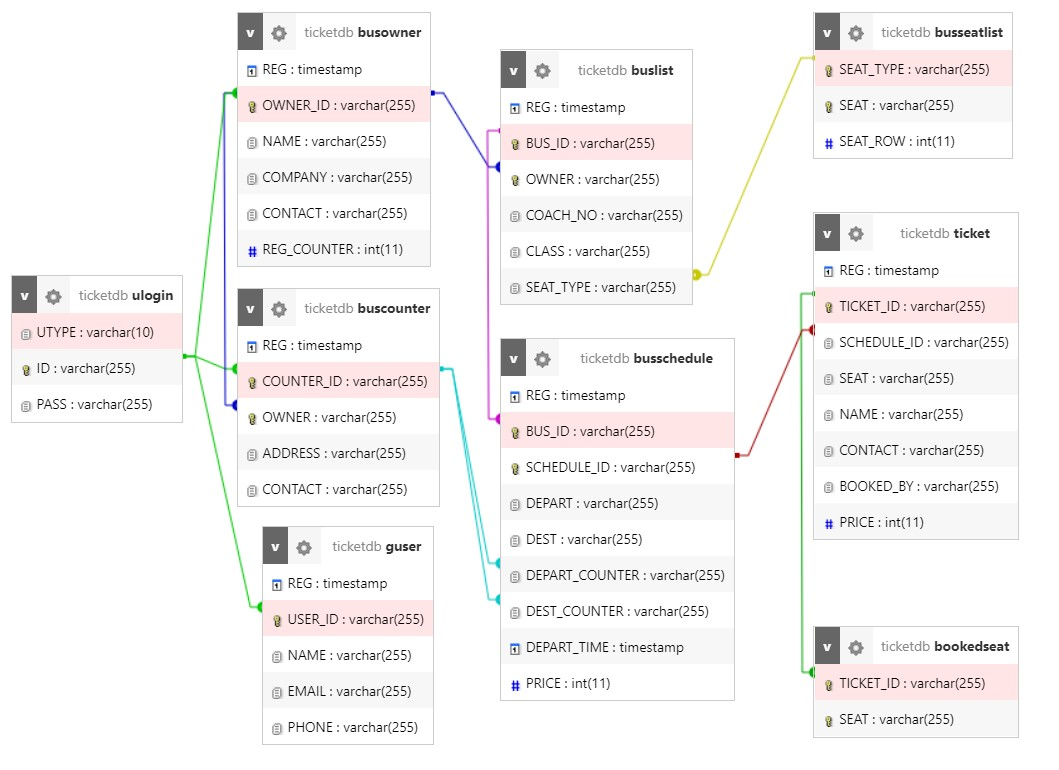
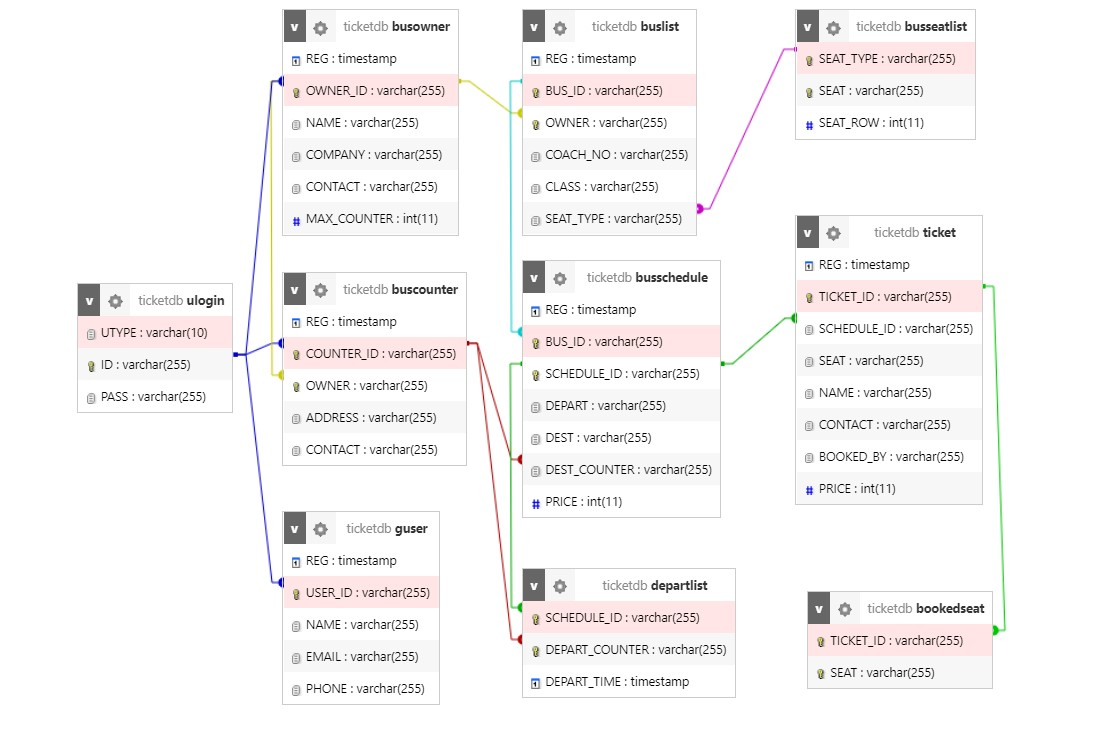
Multiple Departure Counter Feature Added

Changed region(s): [[0.0, 0.0, 0.966, 0.9583], [0.6856, 0.0, 0.966, 0.2164]]

diff --git a/style.css b/style.css
@@ -58,13 +58,21 @@ body {
     color: #17a2b8;
 }
 
-input.busseat[type="checkbox"],
-input.busseat[type="checkbox"]+label {
+input[type="checkbox"].busseat,
+input[type="checkbox"].busseat+label {
     width: 35px;
     height: 45px;
     font-size: inherit;
 }
 
-input.busseat[type="checkbox"]:checked+label:after {
+input[type="checkbox"].busseat:checked+label:after {
     content: "💺";
+}
+
+input[type="checkbox"].departcounter:checked+label {
+    color: #8e9eab;
+}
+
+input[type="checkbox"].departcounter:checked+label:after {
+    content: "✅";
 }

diff --git a/includes/scheduleform.php b/includes/scheduleform.php
@@ -1,11 +1,11 @@
 <?php
 date_default_timezone_set('Asia/Dhaka');
-$mindate=date("Y-m-d");
-$mintime=date("h:i");
-$min=$mindate."T".$mintime;
-$maxdate=date("Y-m-d", strtotime("+10 Days"));
-$maxtime=date("h:i");
-$max=$maxdate."T".$maxtime;
+$mindate = date("Y-m-d");
+$mintime = date("h:i");
+$min = $mindate . "T" . $mintime;
+$maxdate = date("Y-m-d", strtotime("+10 Days"));
+$maxtime = date("h:i");
+$max = $maxdate . "T" . $maxtime;
 //$max=date("Y-m-d h:i:sa", strtotime("+10 Days"));
 ?>
 <br>
@@ -40,7 +40,7 @@ $max=$maxdate."T".$maxtime;
             </select>
         </div>
         <div class="form-group">
-        <label for="dest">DESTINATION CITY</label>
+            <label for="dest">DESTINATION CITY</label>
             <select class="form-control" id="dest" name="destcity" required>
                 <option value="">SELECT DESTINATION CITY</option>
                 <option value="Dhaka">Dhaka</option>
@@ -51,19 +51,35 @@ $max=$maxdate."T".$maxtime;
                 <option value="Sylhet">Benapole</option>
             </select>
         </div>
-        <div class="form-group">
-            <label for="depart">DEPARTURE COUNTER</label>
-            <select class="form-control" id="depart" name="departcounter" required>
-                <option value="">SELECT DEPARTURE COUNTER</option>
+        <div class="form-group table-responsive">
+            <label for="">SELECT DEPARTURE COUNTERS & TIME</label>
+            <table class="table table-sm table-info">
+                <thead>
+                    <tr>
+                        <th scope="col"><label for="depart">SELECT DEPARTURE COUNTERS</label></th>
+                        <th scope="col"><label for="time">SELECT DEPARTURE TIME</label></th>
+                    </tr>
+                </thead>
                 <?php
                 $query = "SELECT COUNTER_ID FROM buscounter WHERE OWNER = '$user_id'";
                 $result = mysqli_query($con, $query);
                 while ($row = mysqli_fetch_array($result)) {
                     $depart = $row['COUNTER_ID'];
-                    echo "<option value='$depart'>$depart</option>";
+                    echo "
+                    <div class='form-check'>
+                    <tbody>
+                    <tr class='text-justify'><td>
+                    <input type='checkbox' class='form-check-input departcounter' value='$depart' id='departcounter' name='departcounter[]'>
+                    <label class='form-check-label' for='departcounter'> $depart </label>
+                    </td><td>
+                    <input type='datetime-local' class='form-control' id='time' name='time[]' min=$min max=$max>
+                    </td></tr>
+                    </tbody>
+                    </div>
+                    ";
                 }
                 ?>
-            </select>
+            </table>
         </div>
         <div class="form-group">
             <label for="dest">DESTINATION COUNTER</label>
@@ -80,14 +96,10 @@ $max=$maxdate."T".$maxtime;
             </select>
         </div>
         <div class="form-group">
-            <label for="time">DEPARTURE TIME</label>
-            <input type="datetime-local" class="form-control" id="time" name="time" min=<?php echo"$min"?> max=<?php echo"$max"?> required>
-        </div>
-        <div class="form-group">
             <label for="price">PRICE(TK)</label>
             <input type="number" class="form-control" id="price" name="price" required>
         </div>
-    <br><button type="submit" class="btn btn-outline-warning" value="ADD" name="add">ADD BUS</button><br>
+        <br><button type="submit" class="btn btn-outline-warning" value="ADD" name="add" id="add">ADD BUS</button><br>
 </form>
 <br>
 
@@ -98,15 +110,55 @@ if (isset($_POST['add'])) {
     $departcity = $_POST['departcity'];
     $destcity = $_POST['destcity'];
     $departcounter = $_POST['departcounter'];
+    $departtime = $_POST['time'];
+    $total_time = count($departtime);
+    $i = 0;
+    $n = 0;
+    while ($i < $total_time) {
+        if ($departtime[$i] == '') {
+            $i++;
+            continue;
+        } else
+            $selectedtime[$n++] = $departtime[$i++];
+    }
     $destcounter = $_POST['destcounter'];
-    $time = $_POST['time'];
     $price = $_POST['price'];
-    $schedule_id = md5("$bus_id" . "-" . "$time");
-    $query = "INSERT INTO busschedule (BUS_ID,SCHEDULE_ID,DEPART,DEST,DEPART_COUNTER,DEST_COUNTER,DEPART_TIME,PRICE) VALUES ('$bus_id','$schedule_id','$departcity','$destcity','$departcounter','$destcounter','$time','$price')";
+    $schedule_id = md5("$bus_id" . "-" . "$selectedtime[0]");
+    $total_counter = count($departcounter);
 
+    $failed = 0;
+    $query = "INSERT INTO busschedule (BUS_ID,SCHEDULE_ID,DEPART,DEST,DEST_COUNTER,PRICE) VALUES ('$bus_id','$schedule_id','$departcity','$destcity','$destcounter','$price')";
     if (mysqli_query($con, $query)) {
         echo "<script>alert('Successfully Scheduled Bus ( $bus_id )')</script>";
     } else {
-        echo "<div class='text-danger'> Registration error! </div>" . mysqli_error($con);
+        echo "<div class='text-danger'> Schedule Error! </div>" . mysqli_error($con);
+        $failed++;
     }
+
+    $n = 0;
+    if ($failed == 0) {
+        while ($n < $total_counter) {
+            $counter = $departcounter[$n];
+            $time = $selectedtime[$n];
+            $query = "INSERT INTO departlist (SCHEDULE_ID,DEPART_COUNTER,DEPART_TIME) VALUES ('$schedule_id','$counter','$time')";
+            $n++;
+            if (!mysqli_query($con, $query)) {
+                echo "<div class='text-danger'> Schedule Error! </div>" . mysqli_error($con);
+            }
+        }
+    }
+    //echo "$total_counter";
 }
+?>
+
+<script type="text/javascript">
+    $(document).ready(function() {
+        $('#add').click(function() {
+            checked = $("input[type=checkbox]:checked").length;
+            if (!checked) {
+                alert("You Must Select at Least One Counter.");
+                return false;
+            }
+        });
+    });
+</script>

diff --git a/includes/navbarhome.php b/includes/navbarhome.php
@@ -2,7 +2,7 @@
 if (!isset($_SESSION['user'])) {
     echo "
     <nav class='navbar navbar-expand-sm bg-info navbar-dark sticky-top'>
-        <a class='navbar-brand animate__animated animate__heartBeat animate__slower animate__infinite' href='index.php'>ticket.com</a>
+        <a class='navbar-brand animate__animated animate__heartBeat animate__slower animate__infinite' href='index'>ticket.com</a>
 
         <button class='navbar-toggler' type='button' data-toggle='collapse' data-target='#collapsibleNavbar'>
             <span class='navbar-toggler-icon'></span>
@@ -36,7 +36,7 @@ if (!isset($_SESSION['user'])) {
     $user_id = $_SESSION["user_id"];
     echo "
         <nav class='navbar navbar-expand-sm bg-info navbar-dark sticky-top'>
-            <a class='navbar-brand' href='$user/index.php'>ticket.com</a>
+            <a class='navbar-brand' href='$user/index'>ticket.com</a>
 
             <button class='navbar-toggler' type='button' data-toggle='collapse' data-target='#collapsibleNavbar'>
                 <span class='navbar-toggler-icon'></span>

diff --git a/includes/navbar.php b/includes/navbar.php
@@ -3,7 +3,7 @@ $user = $_SESSION["user"];
 $user_id = $_SESSION["user_id"];
 echo "
     <nav class='navbar navbar-expand-sm bg-info navbar-dark'>
-        <a class='navbar-brand' href='index.php'>ticket.com</a>
+        <a class='navbar-brand' href='index'>ticket.com</a>
 
         <button class='navbar-toggler' type='button' data-toggle='collapse' data-target='#collapsibleNavbar'>
             <span class='navbar-toggler-icon'></span>
@@ -16,7 +16,7 @@ echo "
                 <li class='nav-item dropdown'>
                     <a class='nav-link dropdown-toggle' href='#' id='navbardrop' data-toggle='dropdown'> $user_id </a>
                     <div class='dropdown-menu'>
-                        <a class='dropdown-item' href='index.php'>Home</a>
+                        <a class='dropdown-item' href='index'>Home</a>
                         <a class='dropdown-item' href='../settings'>Settings</a>
                         <a class='dropdown-item text-danger' href='?logout'>LOG OUT</a>
                     </div>

diff --git a/includes/ticket.php b/includes/ticket.php
@@ -1,7 +1,7 @@
 <?php
 if (isset($_GET['ticket'])) {
   $ticket_id = $_GET['ticket'];
-  $query = "SELECT ticket.REG,ticket.SCHEDULE_ID,SEAT,ticket.NAME,ticket.CONTACT,BOOKED_BY,busschedule.BUS_ID,DEPART,DEST,DEPART_TIME,ticket.PRICE,CLASS,COACH_NO,COMPANY FROM ticket,busschedule,buslist,busowner WHERE TICKET_ID = '$ticket_id' AND ticket.SCHEDULE_ID = busschedule.SCHEDULE_ID AND busschedule.BUS_ID = buslist.BUS_ID AND buslist.OWNER = busowner.OWNER_ID";
+  $query = "SELECT ticket.REG,ticket.SCHEDULE_ID,SEAT,ticket.NAME,ticket.CONTACT,BOOKED_BY,busschedule.BUS_ID,DEPART,DEST,DEPART_TIME,ticket.PRICE,CLASS,COACH_NO,COMPANY FROM ticket,busschedule,buslist,busowner,departlist WHERE TICKET_ID = '$ticket_id' AND ticket.SCHEDULE_ID = busschedule.SCHEDULE_ID AND busschedule.BUS_ID = buslist.BUS_ID AND buslist.OWNER = busowner.OWNER_ID";
   $result = mysqli_query($con, $query);
   $row = mysqli_fetch_array($result);
   $reg = $row['REG'];

diff --git a/includes/searchresult.php b/includes/searchresult.php
@@ -9,7 +9,7 @@ if (isset($_POST['search'])) {
     ";
     $depart = $_POST['from'];
     $dest = $_POST['to'];
-    $query = "SELECT * FROM busschedule,buslist,busowner WHERE DEPART = '$depart' AND DEST = '$dest' AND busschedule.BUS_ID = buslist.BUS_ID AND buslist.OWNER = busowner.OWNER_ID AND DEPART_TIME >= NOW() ORDER BY DEPART_TIME";
+    $query = "SELECT * FROM busschedule,buslist,busowner,departlist WHERE DEPART = '$depart' AND DEST = '$dest' AND departlist.SCHEDULE_ID=busschedule.SCHEDULE_ID AND busschedule.BUS_ID = buslist.BUS_ID AND buslist.OWNER = busowner.OWNER_ID AND DEPART_TIME >= NOW() ORDER BY DEPART_TIME";
     $result = mysqli_query($con, $query);
     if (mysqli_num_rows($result) == 0) {
         echo "

diff --git a/includes/counterbuslist.php b/includes/counterbuslist.php
@@ -1,5 +1,5 @@
 <?php
-$query = "SELECT * FROM busschedule,buslist,busowner WHERE DEPART_COUNTER = '$user_id' and busschedule.Bus_ID=buslist.Bus_ID AND buslist.OWNER = busowner.OWNER_ID AND DEPART_TIME >= NOW() ORDER BY DEPART_TIME";
+$query = "SELECT * FROM busschedule,buslist,busowner,departlist WHERE DEPART_COUNTER = '$user_id' AND departlist.SCHEDULE_ID=busschedule.SCHEDULE_ID AND busschedule.Bus_ID=buslist.Bus_ID AND buslist.OWNER = busowner.OWNER_ID AND DEPART_TIME >= NOW() ORDER BY DEPART_TIME";
 $result = mysqli_query($con, $query);
 if (mysqli_num_rows($result) == 0) {
     echo "

diff --git a/includes/counterregform.php b/includes/counterregform.php
@@ -56,7 +56,7 @@ if (isset($_POST['register'])) {
     $acquery = "INSERT INTO buscounter (COUNTER_ID,OWNER,ADDRESS,CONTACT) VALUES ('$id','$owner','$address','$phone')";
 
     if (mysqli_query($con, $loginquery) && mysqli_query($con, $acquery)) {
-        echo "<script>alert('Successfully Registered COUNTER ID( $id ).')</script>";
+        echo "<script>alert('Successfully Registered COUNTER ID( $id ).');location.href = 'addcounter.php';</script>";
     } else {
         echo "<div class='text-danger'> Registration Error! </div>" . mysqli_error($con);
     }

diff --git a/includes/loginform.php b/includes/loginform.php
@@ -32,7 +32,7 @@ if (isset($_POST['login'])) {
         $_SESSION['user'] = $type;
         $_SESSION['user_id'] = $id;
         $_SESSION['login_status'] = "in";
-        header("Location:$type/index.php");
+        header("Location:$type/");
     } else {
         echo "<div class='alert alert-danger animate__animated animate__shakeX'>Incorrect User Id or Password.<br>If you are new user <a href='signup.php' class='alert-link'>SIGN UP</a> to continue...<br></div>";
     }

diff --git a/includes/signupform.php b/includes/signupform.php
@@ -51,7 +51,7 @@ if (isset($_POST['register'])) {
         echo "
             <script>
             alert('Successfully registered.');
-            location.href = 'user/index.php';
+            location.href = 'user/';
             </script>
         ";
     } else {
